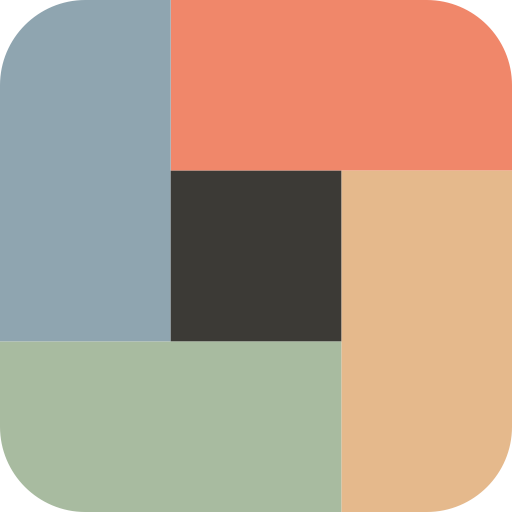
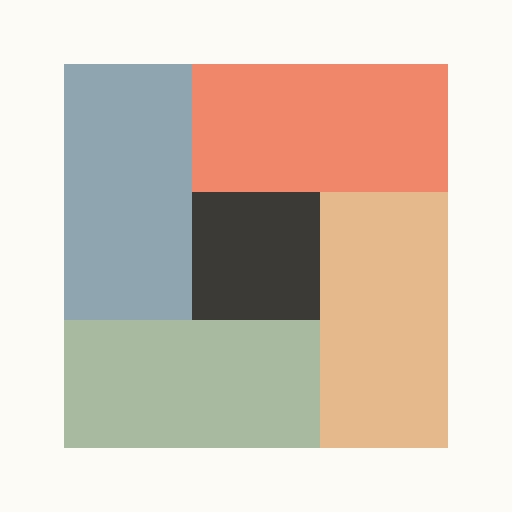
fix(pwa): PWAアイコンの白背景角はみ出しを修正
#fdfbf5 フルブリード背景に四畳半ロゴを75%縮小中央配置した
192/512px PNGを再生成（qlmanage SVG→PNG）。
manifest.json の icons を any / maskable に分離し
OSマスク適用時に白いカドが出ないよう対応。

diff --git a/CLAUDE.md b/CLAUDE.md
@@ -244,6 +244,7 @@ index.js
 |------|----------|
 | 2026-07-07 | feat(share): スマホのハンバーガーメニューに「共有に追加」導線カードを実装（shared/header.js）: ①CSS: `.mob-share-wrap`（flex中央揃え・padding）/ `.mob-share-card`（position:relative・max-width:240px）/ `.mob-share-paper1/2`（コーラル#f7ddcf・青#e6ebf0、translate でずらし）/ `.mob-share-inner`（生成り地・0.5px枠・16px角丸）/ `.mob-share-desc`・`.mob-share-btn`（accent-grad・20px角丸ピル）を追加。②HTML: `.mobile-menu-links` と `.mobile-menu-footer` の間に `.mob-share-wrap` ＋ `.mob-share-card` DOM を挿入。③JS: `HEADER_JS` 先頭に `beforeinstallprompt` 捕捉（`_hdrInstallPrompt`・全ページ共通）。カード初期化IIFE: standalone判定→`.mob-share-wrap` を `display:none` / iOS→`IOS_SHORTCUT_URL` を `window.open` / Android/PC→`_hdrInstallPrompt.prompt()` 発火→承認時に非表示。 |
 | 2026-07-07 | fix(share): IOS_SHORTCUT_URL を確定リンクに差し込み（encrypt.js）: `IOS_SHORTCUT_URL = 'https://www.icloud.com/shortcuts/7aaaa3cbc6b24fd5a421e23cc27edc44'` を設定。iOS での「共有に追加」ボタンが「準備中…」表示ではなくショートカット追加画面へ直接遷移するようになった。 |
+| 2026-07-07 | fix(pwa): PWAアイコンの白背景角はみ出しを修正（public/icon-192.png・icon-512.png・manifest.json）: アイコンを「#fdfbf5 フルブリード背景＋四畳半ロゴ75%縮小中央配置（192:24px/512:64px パディング）」で再生成（qlmanage SVG→PNG）。`manifest.json` の icons エントリを `any` と `maskable` に分離（512.pngを2エントリ）。OSの角丸マスクで白カドが出なくなる。 |
 | 2026-07-07 | fix(form): 送信ボタン案内の位置バグを修正（encrypt.js）: `position:absolute` 方式が `.form-run-wrap` 全体下端（`.form-run-note` の下）を基準にし案内が最下部に出ていた。`max-height:0→2em; overflow:hidden; padding-top:0→8px; opacity:0→1` トランジション方式に変更し、ボタンと `.form-run-note` の間に正しく表示。非表示時は高さゼロでスペースなし。 |
 | 2026-07-07 | feat(form): 送信ボタン活性化フィードバック（encrypt.js）: `#run-hint`（opacity フェード・薄インク色 rgba(60,55,48,.55)・12px）をボタン下に追加。非活性状態（`.btn-run--off`）でクリック時に `.visible` クラスを付与して「メッセージかURLを入力してください」を静かにフェードイン。入力イベントで即非表示。ボタン自体の見た目（薄コーラル・cursor:not-allowed）は変更なし。 |
 | 2026-07-07 | fix(share): 共有導線カードの表示条件修正（encrypt.js + shared/header.js）: macOS を `isMac()`（userAgentData.platform / navigator.platform + ontouchend 判定）で検出し PC右余白カード・モバイルメニューカードとも非表示。iOS は従来通り表示。Android/Windows Chrome 等は `beforeinstallprompt` 発火時のみ表示する遅延方式に変更（イベントが来なければ非表示のまま）。CSS の `@media(min-width:880px){ .share-card{display:block} }` 自動表示を削除し JS で制御に一本化。 |